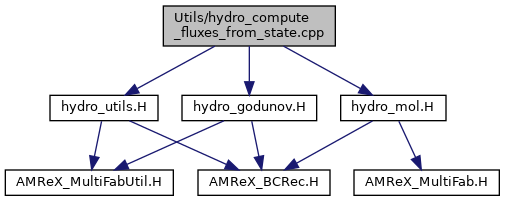
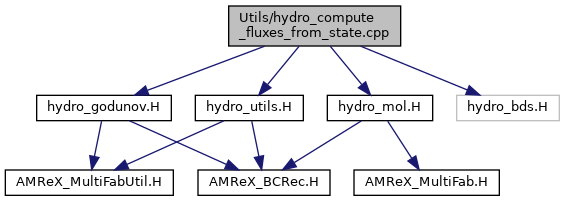
Deploying to main from  @ 1f61e9f0909a2ea51b47cd7fe5bc8acefe6986e6 🚀

diff --git a/amrex-hydro/Doxygen/html/search/all_10.js b/amrex-hydro/Doxygen/html/search/all_10.js
@@ -525,8 +525,8 @@ var searchData=
   ['push_5819',['push',['https://amrex-codes.github.io/amrex/doxygen/classamrex_1_1AMReX.html#aacd757c228bab84f39dc148cc5777624',1,'amrex::AMReX::push()'],['https://amrex-codes.github.io/amrex/doxygen/classamrex_1_1ParmParse_1_1Frame.html#a2b5df366a9cc67f3ab6159ab5c924ec8',1,'amrex::ParmParse::Frame::push()'],['https://amrex-codes.github.io/amrex/doxygen/classamrex_1_1EB2_1_1IndexSpace.html#a5a3c0ce524a4c0bff9901548d9e8648d',1,'amrex::EB2::IndexSpace::push()'],['https://amrex-codes.github.io/amrex/doxygen/structamrex_1_1IParserStack.html#af48a7aa2e427fa54e5aca98aca113111',1,'amrex::IParserStack::push()'],['https://amrex-codes.github.io/amrex/doxygen/structamrex_1_1ParserStack.html#ae5f96b8ae7c872185b3b816dadf7d480',1,'amrex::ParserStack::push()'],['https://amrex-codes.github.io/amrex/doxygen/namespaceamrex_1_1ParallelContext.html#a09cb92f4a123081a62f72e26a4e3c2a3',1,'amrex::ParallelContext::push(MPI_Comm c)'],['https://amrex-codes.github.io/amrex/doxygen/namespaceamrex_1_1ParallelContext.html#a8c562ca41b2d74fcd48dc76cc2acb6b4',1,'amrex::ParallelContext::push(MPI_Comm c, int id, int io_rank)']]],
   ['push_5fback_5820',['push_back',['https://amrex-codes.github.io/amrex/doxygen/classamrex_1_1ArrayOfStructs.html#a92ed68fdf4560419b02707461df781d5',1,'amrex::ArrayOfStructs::push_back()'],['https://amrex-codes.github.io/amrex/doxygen/classamrex_1_1ArrayOfStructs.html#a92ed68fdf4560419b02707461df781d5',1,'ArrayOfStructs&lt; NStructReal, NStructInt, DefaultAllocator &gt;::push_back()'],['https://amrex-codes.github.io/amrex/doxygen/classamrex_1_1BoxList.html#aaf9cf5350e31edefe87e9e8b2f2278ef',1,'amrex::BoxList::push_back()'],['https://amrex-codes.github.io/amrex/doxygen/structamrex_1_1DataLayoutPolicy_3_01ContainerType_00_01ParticleType_3_01Types_8_8_8_01_4_00_01DataLayout_1_1AoS_01_4.html#ab6b4b87deef7286f615f1db384e5774c',1,'amrex::DataLayoutPolicy&lt; ContainerType, ParticleType&lt; Types... &gt;, DataLayout::AoS &gt;::push_back()'],['https://amrex-codes.github.io/amrex/doxygen/structamrex_1_1DataLayoutPolicy_3_01ContainerType_00_01ParticleType_3_01Types_8_8_8_01_4_00_01DataLayout_1_1SoA_01_4.html#ab721332e7d5f36770a7a3f944857825a',1,'amrex::DataLayoutPolicy&lt; ContainerType, ParticleType&lt; Types... &gt;, DataLayout::SoA &gt;::push_back()'],['https://amrex-codes.github.io/amrex/doxygen/structamrex_1_1ParticleArray.html#ac63a647b8a7225d490ce30caaf1105b3',1,'amrex::ParticleArray::push_back()'],['https://amrex-codes.github.io/amrex/doxygen/structamrex_1_1ParticleTile.html#a28e1684c3daf3114705c8737fa0b526b',1,'amrex::ParticleTile::push_back(const ParticleType &amp;p)'],['https://amrex-codes.github.io/amrex/doxygen/structamrex_1_1ParticleTile.html#aaa22f040138b37b71974429c01c46772',1,'amrex::ParticleTile::push_back(const SuperParticleType &amp;sp)'],['https://amrex-codes.github.io/amrex/doxygen/classamrex_1_1PODVector.html#adb9df25b399f75fae646206ecd6706cc',1,'amrex::PODVector::push_back(const T &amp;a_value) noexcept'],['https://amrex-codes.github.io/amrex/doxygen/classamrex_1_1PODVector.html#a30ce7699c5a5620cad90ce01e827092c',1,'amrex::PODVector::push_back(T &amp;&amp;a_value) noexcept'],['https://amrex-codes.github.io/amrex/doxygen/classamrex_1_1PODVector.html#adb9df25b399f75fae646206ecd6706cc',1,'PODVector&lt; amrex::AssignGrid&lt; BinIteratorFactory &gt; &gt;::push_back(const amrex::AssignGrid&lt; BinIteratorFactory &gt; &amp;a_value) noexcept'],['https://amrex-codes.github.io/amrex/doxygen/classamrex_1_1PODVector.html#a30ce7699c5a5620cad90ce01e827092c',1,'PODVector&lt; amrex::AssignGrid&lt; BinIteratorFactory &gt; &gt;::push_back(amrex::AssignGrid&lt; BinIteratorFactory &gt; &amp;&amp;a_value) noexcept'],['https://amrex-codes.github.io/amrex/doxygen/classamrex_1_1PODVector.html#adb9df25b399f75fae646206ecd6706cc',1,'PODVector&lt; amrex::Box &gt;::push_back(const amrex::Box &amp;a_value) noexcept'],['https://amrex-codes.github.io/amrex/doxygen/classamrex_1_1PODVector.html#a30ce7699c5a5620cad90ce01e827092c',1,'PODVector&lt; amrex::Box &gt;::push_back(amrex::Box &amp;&amp;a_value) noexcept'],['https://amrex-codes.github.io/amrex/doxygen/classamrex_1_1PODVector.html#adb9df25b399f75fae646206ecd6706cc',1,'PODVector&lt; amrex::GpuArray&lt; amrex::MLCellLinOp::BCTL, 2 *AMREX_SPACEDIM &gt; &gt;::push_back(const amrex::GpuArray&lt; amrex::MLCellLinOp::BCTL, 2 *AMREX_SPACEDIM &gt; &amp;a_value) noexcept'],['https://amrex-codes.github.io/amrex/doxygen/classamrex_1_1PODVector.html#a30ce7699c5a5620cad90ce01e827092c',1,'PODVector&lt; amrex::GpuArray&lt; amrex::MLCellLinOp::BCTL, 2 *AMREX_SPACEDIM &gt; &gt;::push_back(amrex::GpuArray&lt; amrex::MLCellLinOp::BCTL, 2 *AMREX_SPACEDIM &gt; &amp;&amp;a_value) noexcept'],['https://amrex-codes.github.io/amrex/doxygen/classamrex_1_1PODVector.html#adb9df25b399f75fae646206ecd6706cc',1,'PODVector&lt; amrex::IntVect &gt;::push_back(const amrex::IntVect &amp;a_value) noexcept'],['https://amrex-codes.github.io/amrex/doxygen/classamrex_1_1PODVector.html#a30ce7699c5a5620cad90ce01e827092c',1,'PODVector&lt; amrex::IntVect &gt;::push_back(amrex::IntVect &amp;&amp;a_value) noexcept'],['https://amrex-codes.github.io/amrex/doxygen/classamrex_1_1PODVector.html#adb9df25b399f75fae646206ecd6706cc',1,'PODVector&lt; amrex::NeighborCode &gt;::push_back(const amrex::NeighborCode &amp;a_value) noexcept'],['https://amrex-codes.github.io/amrex/doxygen/classamrex_1_1PODVector.html#a30ce7699c5a5620cad90ce01e827092c',1,'PODVector&lt; amrex::NeighborCode &gt;::push_back(amrex::NeighborCode &amp;&amp;a_value) noexcept'],['https://amrex-codes.github.io/amrex/doxygen/classamrex_1_1PODVector.html#adb9df25b399f75fae646206ecd6706cc',1,'PODVector&lt; amrex::Real &gt;::push_back(const amrex::Real &amp;a_value) noexcept'],['https://amrex-codes.github.io/amrex/doxygen/classamrex_1_1PODVector.html#a30ce7699c5a5620cad90ce01e827092c',1,'PODVector&lt; amrex::Real &gt;::push_back(amrex::Real &amp;&amp;a_value) noexcept'],['https://amrex-codes.github.io/amrex/doxygen/classamrex_1_1PODVector.html#adb9df25b399f75fae646206ecd6706cc',1,'PODVector&lt; char &gt;::push_back(const char &amp;a_value) noexcept'],['https://amrex-codes.github.io/amrex/doxygen/classamrex_1_1PODVector.html#a30ce7699c5a5620cad90ce01e827092c',1,'PODVector&lt; char &gt;::push_back(char &amp;&amp;a_value) noexcept'],['https://amrex-codes.github.io/amrex/doxygen/classamrex_1_1PODVector.html#adb9df25b399f75fae646206ecd6706cc',1,'PODVector&lt; const int *, DefaultAllocator&lt; const int * &gt; &gt;::push_back(const const int *&amp;a_value) noexcept'],['https://amrex-codes.github.io/amrex/doxygen/classamrex_1_1PODVector.html#a30ce7699c5a5620cad90ce01e827092c',1,'PODVector&lt; const int *, DefaultAllocator&lt; const int * &gt; &gt;::push_back(const int *&amp;&amp;a_value) noexcept'],['https://amrex-codes.github.io/amrex/doxygen/classamrex_1_1PODVector.html#adb9df25b399f75fae646206ecd6706cc',1,'PODVector&lt; const ParticleReal *, DefaultAllocator&lt; const ParticleReal * &gt; &gt;::push_back(const const ParticleReal *&amp;a_value) noexcept'],['https://amrex-codes.github.io/amrex/doxygen/classamrex_1_1PODVector.html#a30ce7699c5a5620cad90ce01e827092c',1,'PODVector&lt; const ParticleReal *, DefaultAllocator&lt; const ParticleReal * &gt; &gt;::push_back(const ParticleReal *&amp;&amp;a_value) noexcept'],['https://amrex-codes.github.io/amrex/doxygen/classamrex_1_1PODVector.html#adb9df25b399f75fae646206ecd6706cc',1,'PODVector&lt; index_type &gt;::push_back(const index_type &amp;a_value) noexcept'],['https://amrex-codes.github.io/amrex/doxygen/classamrex_1_1PODVector.html#a30ce7699c5a5620cad90ce01e827092c',1,'PODVector&lt; index_type &gt;::push_back(index_type &amp;&amp;a_value) noexcept'],['https://amrex-codes.github.io/amrex/doxygen/classamrex_1_1PODVector.html#adb9df25b399f75fae646206ecd6706cc',1,'PODVector&lt; int *, DefaultAllocator&lt; int * &gt; &gt;::push_back(const int *&amp;a_value) noexcept'],['https://amrex-codes.github.io/amrex/doxygen/classamrex_1_1PODVector.html#a30ce7699c5a5620cad90ce01e827092c',1,'PODVector&lt; int *, DefaultAllocator&lt; int * &gt; &gt;::push_back(int *&amp;&amp;a_value) noexcept'],['https://amrex-codes.github.io/amrex/doxygen/classamrex_1_1PODVector.html#adb9df25b399f75fae646206ecd6706cc',1,'PODVector&lt; int &gt;::push_back(const int &amp;a_value) noexcept'],['https://amrex-codes.github.io/amrex/doxygen/classamrex_1_1PODVector.html#a30ce7699c5a5620cad90ce01e827092c',1,'PODVector&lt; int &gt;::push_back(int &amp;&amp;a_value) noexcept'],['https://amrex-codes.github.io/amrex/doxygen/classamrex_1_1PODVector.html#adb9df25b399f75fae646206ecd6706cc',1,'PODVector&lt; Int &gt;::push_back(const Int &amp;a_value) noexcept'],['https://amrex-codes.github.io/amrex/doxygen/classamrex_1_1PODVector.html#a30ce7699c5a5620cad90ce01e827092c',1,'PODVector&lt; Int &gt;::push_back(Int &amp;&amp;a_value) noexcept'],['https://amrex-codes.github.io/amrex/doxygen/classamrex_1_1PODVector.html#adb9df25b399f75fae646206ecd6706cc',1,'PODVector&lt; ParticleReal *, DefaultAllocator&lt; ParticleReal * &gt; &gt;::push_back(const ParticleReal *&amp;a_value) noexcept'],['https://amrex-codes.github.io/amrex/doxygen/classamrex_1_1PODVector.html#a30ce7699c5a5620cad90ce01e827092c',1,'PODVector&lt; ParticleReal *, DefaultAllocator&lt; ParticleReal * &gt; &gt;::push_back(ParticleReal *&amp;&amp;a_value) noexcept'],['https://amrex-codes.github.io/amrex/doxygen/classamrex_1_1PODVector.html#adb9df25b399f75fae646206ecd6706cc',1,'PODVector&lt; ParticleType, DefaultAllocator&lt; ParticleType &gt; &gt;::push_back(const ParticleType &amp;a_value) noexcept'],['https://amrex-codes.github.io/amrex/doxygen/classamrex_1_1PODVector.html#a30ce7699c5a5620cad90ce01e827092c',1,'PODVector&lt; ParticleType, DefaultAllocator&lt; ParticleType &gt; &gt;::push_back(ParticleType &amp;&amp;a_value) noexcept'],['https://amrex-codes.github.io/amrex/doxygen/classamrex_1_1PODVector.html#adb9df25b399f75fae646206ecd6706cc',1,'PODVector&lt; Real &gt;::push_back(const Real &amp;a_value) noexcept'],['https://amrex-codes.github.io/amrex/doxygen/classamrex_1_1PODVector.html#a30ce7699c5a5620cad90ce01e827092c',1,'PODVector&lt; Real &gt;::push_back(Real &amp;&amp;a_value) noexcept'],['https://amrex-codes.github.io/amrex/doxygen/classamrex_1_1PODVector.html#adb9df25b399f75fae646206ecd6706cc',1,'PODVector&lt; std::size_t &gt;::push_back(const std::size_t &amp;a_value) noexcept'],['https://amrex-codes.github.io/amrex/doxygen/classamrex_1_1PODVector.html#a30ce7699c5a5620cad90ce01e827092c',1,'PODVector&lt; std::size_t &gt;::push_back(std::size_t &amp;&amp;a_value) noexcept'],['https://amrex-codes.github.io/amrex/doxygen/classamrex_1_1PODVector.html#adb9df25b399f75fae646206ecd6706cc',1,'PODVector&lt; unsigned int &gt;::push_back(const unsigned int &amp;a_value) noexcept'],['https://amrex-codes.github.io/amrex/doxygen/classamrex_1_1PODVector.html#a30ce7699c5a5620cad90ce01e827092c',1,'PODVector&lt; unsigned int &gt;::push_back(unsigned int &amp;&amp;a_value) noexcept'],['https://amrex-codes.github.io/amrex/doxygen/classamrex_1_1WeightedBoxList.html#a059d2458f21b6e42c2c22ed204e26337',1,'amrex::WeightedBoxList::push_back()']]],
   ['push_5fback_5fimpl_5821',['push_back_impl',['https://amrex-codes.github.io/amrex/doxygen/structamrex_1_1DataLayoutPolicy_3_01ContainerType_00_01ParticleType_3_01Types_8_8_8_01_4_00_01DataLayout_1_1SoA_01_4.html#acec2f30f8a1442343e173e8b286ce526',1,'amrex::DataLayoutPolicy&lt; ContainerType, ParticleType&lt; Types... &gt;, DataLayout::SoA &gt;']]],
-  ['push_5fback_5fint_5822',['push_back_int',['https://amrex-codes.github.io/amrex/doxygen/structamrex_1_1ParticleTile.html#a9e7cea5a0daeb5e0c68ef9ad5553b52a',1,'amrex::ParticleTile::push_back_int(int comp, int v)'],['https://amrex-codes.github.io/amrex/doxygen/structamrex_1_1ParticleTile.html#a84f0480fe10a0695abf74e9f8b397454',1,'amrex::ParticleTile::push_back_int(const std::array&lt; int, NArrayInt &gt; &amp;v)'],['https://amrex-codes.github.io/amrex/doxygen/structamrex_1_1ParticleTile.html#a58d94753478e65af1b75a010eec7a1d7',1,'amrex::ParticleTile::push_back_int(int comp, const int *beg, const int *end)'],['https://amrex-codes.github.io/amrex/doxygen/structamrex_1_1ParticleTile.html#a9216fb4aafebb089b04bda28d871e059',1,'amrex::ParticleTile::push_back_int(int comp, std::size_t npar, int v)']]],
-  ['push_5fback_5freal_5823',['push_back_real',['https://amrex-codes.github.io/amrex/doxygen/structamrex_1_1ParticleTile.html#abe65fea82c76b01d25b580cb51d010b2',1,'amrex::ParticleTile::push_back_real(int comp, ParticleReal v)'],['https://amrex-codes.github.io/amrex/doxygen/structamrex_1_1ParticleTile.html#ac44fade5412c189846d84078b4175e09',1,'amrex::ParticleTile::push_back_real(const std::array&lt; ParticleReal, NArrayReal &gt; &amp;v)'],['https://amrex-codes.github.io/amrex/doxygen/structamrex_1_1ParticleTile.html#ad16a71f65f177e64acc2a9a569e2aa4f',1,'amrex::ParticleTile::push_back_real(int comp, const ParticleReal *beg, const ParticleReal *end)'],['https://amrex-codes.github.io/amrex/doxygen/structamrex_1_1ParticleTile.html#a1013ca03cb3abee5f186d0d2c36d91ba',1,'amrex::ParticleTile::push_back_real(int comp, std::size_t npar, ParticleReal v)']]],
+  ['push_5fback_5fint_5822',['push_back_int',['https://amrex-codes.github.io/amrex/doxygen/structamrex_1_1ParticleTile.html#a9e7cea5a0daeb5e0c68ef9ad5553b52a',1,'amrex::ParticleTile::push_back_int(int comp, int v)'],['https://amrex-codes.github.io/amrex/doxygen/structamrex_1_1ParticleTile.html#a84f0480fe10a0695abf74e9f8b397454',1,'amrex::ParticleTile::push_back_int(const std::array&lt; int, NArrayInt &gt; &amp;v)'],['https://amrex-codes.github.io/amrex/doxygen/structamrex_1_1ParticleTile.html#a58d94753478e65af1b75a010eec7a1d7',1,'amrex::ParticleTile::push_back_int(int comp, const int *beg, const int *end)'],['https://amrex-codes.github.io/amrex/doxygen/structamrex_1_1ParticleTile.html#a41bd5591adda272727766198be952f6e',1,'amrex::ParticleTile::push_back_int(int comp, amrex::Vector&lt; int &gt;::const_iterator beg, amrex::Vector&lt; int &gt;::const_iterator end)'],['https://amrex-codes.github.io/amrex/doxygen/structamrex_1_1ParticleTile.html#ae59092b40a00ff0e7e0bd287b07079ca',1,'amrex::ParticleTile::push_back_int(int comp, amrex::Vector&lt; int &gt; const &amp;vec)'],['https://amrex-codes.github.io/amrex/doxygen/structamrex_1_1ParticleTile.html#a9216fb4aafebb089b04bda28d871e059',1,'amrex::ParticleTile::push_back_int(int comp, std::size_t npar, int v)']]],
+  ['push_5fback_5freal_5823',['push_back_real',['https://amrex-codes.github.io/amrex/doxygen/structamrex_1_1ParticleTile.html#abe65fea82c76b01d25b580cb51d010b2',1,'amrex::ParticleTile::push_back_real(int comp, ParticleReal v)'],['https://amrex-codes.github.io/amrex/doxygen/structamrex_1_1ParticleTile.html#ac44fade5412c189846d84078b4175e09',1,'amrex::ParticleTile::push_back_real(const std::array&lt; ParticleReal, NArrayReal &gt; &amp;v)'],['https://amrex-codes.github.io/amrex/doxygen/structamrex_1_1ParticleTile.html#ad16a71f65f177e64acc2a9a569e2aa4f',1,'amrex::ParticleTile::push_back_real(int comp, const ParticleReal *beg, const ParticleReal *end)'],['https://amrex-codes.github.io/amrex/doxygen/structamrex_1_1ParticleTile.html#a774121fa851e79cfc14f2e17e005b1b2',1,'amrex::ParticleTile::push_back_real(int comp, amrex::Vector&lt; amrex::ParticleReal &gt;::const_iterator beg, amrex::Vector&lt; amrex::ParticleReal &gt;::const_iterator end)'],['https://amrex-codes.github.io/amrex/doxygen/structamrex_1_1ParticleTile.html#a59a1bf76033055a3e1dd0dbbb3d61447',1,'amrex::ParticleTile::push_back_real(int comp, amrex::Vector&lt; amrex::ParticleReal &gt; const &amp;vec)'],['https://amrex-codes.github.io/amrex/doxygen/structamrex_1_1ParticleTile.html#a1013ca03cb3abee5f186d0d2c36d91ba',1,'amrex::ParticleTile::push_back_real(int comp, std::size_t npar, ParticleReal v)']]],
   ['pushprefix_5824',['pushPrefix',['https://amrex-codes.github.io/amrex/doxygen/classamrex_1_1ParmParse.html#a83c047347e19313480ff276fa0683ac9',1,'amrex::ParmParse']]],
   ['pushregiontag_5825',['pushRegionTag',['https://amrex-codes.github.io/amrex/doxygen/classamrex_1_1FabArrayBase.html#a550a79531f98644ed6572f635f854cf7',1,'amrex::FabArrayBase::pushRegionTag(const char *t)'],['https://amrex-codes.github.io/amrex/doxygen/classamrex_1_1FabArrayBase.html#a6c6874f6a073ba5a8fe15d5fc7837a5d',1,'amrex::FabArrayBase::pushRegionTag(std::string t)']]],
   ['pvmf_5826',['PVMF',['https://amrex-codes.github.io/amrex/doxygen/classamrex_1_1DistributionMapping.html#a55afc17fcc72abd4f0f9bf4bd305ce4b',1,'amrex::DistributionMapping']]]

diff --git a/amrex-hydro/Doxygen/html/search/functions_10.js b/amrex-hydro/Doxygen/html/search/functions_10.js
@@ -243,8 +243,8 @@ var searchData=
   ['push_12158',['push',['https://amrex-codes.github.io/amrex/doxygen/classamrex_1_1AMReX.html#aacd757c228bab84f39dc148cc5777624',1,'amrex::AMReX::push()'],['https://amrex-codes.github.io/amrex/doxygen/classamrex_1_1ParmParse_1_1Frame.html#a2b5df366a9cc67f3ab6159ab5c924ec8',1,'amrex::ParmParse::Frame::push()'],['https://amrex-codes.github.io/amrex/doxygen/classamrex_1_1EB2_1_1IndexSpace.html#a5a3c0ce524a4c0bff9901548d9e8648d',1,'amrex::EB2::IndexSpace::push()'],['https://amrex-codes.github.io/amrex/doxygen/structamrex_1_1IParserStack.html#af48a7aa2e427fa54e5aca98aca113111',1,'amrex::IParserStack::push()'],['https://amrex-codes.github.io/amrex/doxygen/structamrex_1_1ParserStack.html#ae5f96b8ae7c872185b3b816dadf7d480',1,'amrex::ParserStack::push()'],['https://amrex-codes.github.io/amrex/doxygen/namespaceamrex_1_1ParallelContext.html#a09cb92f4a123081a62f72e26a4e3c2a3',1,'amrex::ParallelContext::push(MPI_Comm c)'],['https://amrex-codes.github.io/amrex/doxygen/namespaceamrex_1_1ParallelContext.html#a8c562ca41b2d74fcd48dc76cc2acb6b4',1,'amrex::ParallelContext::push(MPI_Comm c, int id, int io_rank)']]],
   ['push_5fback_12159',['push_back',['https://amrex-codes.github.io/amrex/doxygen/classamrex_1_1ArrayOfStructs.html#a92ed68fdf4560419b02707461df781d5',1,'amrex::ArrayOfStructs::push_back()'],['https://amrex-codes.github.io/amrex/doxygen/classamrex_1_1ArrayOfStructs.html#a92ed68fdf4560419b02707461df781d5',1,'ArrayOfStructs&lt; NStructReal, NStructInt, DefaultAllocator &gt;::push_back()'],['https://amrex-codes.github.io/amrex/doxygen/classamrex_1_1BoxList.html#aaf9cf5350e31edefe87e9e8b2f2278ef',1,'amrex::BoxList::push_back()'],['https://amrex-codes.github.io/amrex/doxygen/structamrex_1_1DataLayoutPolicy_3_01ContainerType_00_01ParticleType_3_01Types_8_8_8_01_4_00_01DataLayout_1_1AoS_01_4.html#ab6b4b87deef7286f615f1db384e5774c',1,'amrex::DataLayoutPolicy&lt; ContainerType, ParticleType&lt; Types... &gt;, DataLayout::AoS &gt;::push_back()'],['https://amrex-codes.github.io/amrex/doxygen/structamrex_1_1DataLayoutPolicy_3_01ContainerType_00_01ParticleType_3_01Types_8_8_8_01_4_00_01DataLayout_1_1SoA_01_4.html#ab721332e7d5f36770a7a3f944857825a',1,'amrex::DataLayoutPolicy&lt; ContainerType, ParticleType&lt; Types... &gt;, DataLayout::SoA &gt;::push_back()'],['https://amrex-codes.github.io/amrex/doxygen/structamrex_1_1ParticleArray.html#ac63a647b8a7225d490ce30caaf1105b3',1,'amrex::ParticleArray::push_back()'],['https://amrex-codes.github.io/amrex/doxygen/structamrex_1_1ParticleTile.html#a28e1684c3daf3114705c8737fa0b526b',1,'amrex::ParticleTile::push_back(const ParticleType &amp;p)'],['https://amrex-codes.github.io/amrex/doxygen/structamrex_1_1ParticleTile.html#aaa22f040138b37b71974429c01c46772',1,'amrex::ParticleTile::push_back(const SuperParticleType &amp;sp)'],['https://amrex-codes.github.io/amrex/doxygen/classamrex_1_1PODVector.html#adb9df25b399f75fae646206ecd6706cc',1,'amrex::PODVector::push_back(const T &amp;a_value) noexcept'],['https://amrex-codes.github.io/amrex/doxygen/classamrex_1_1PODVector.html#a30ce7699c5a5620cad90ce01e827092c',1,'amrex::PODVector::push_back(T &amp;&amp;a_value) noexcept'],['https://amrex-codes.github.io/amrex/doxygen/classamrex_1_1PODVector.html#adb9df25b399f75fae646206ecd6706cc',1,'PODVector&lt; amrex::AssignGrid&lt; BinIteratorFactory &gt; &gt;::push_back(const amrex::AssignGrid&lt; BinIteratorFactory &gt; &amp;a_value) noexcept'],['https://amrex-codes.github.io/amrex/doxygen/classamrex_1_1PODVector.html#a30ce7699c5a5620cad90ce01e827092c',1,'PODVector&lt; amrex::AssignGrid&lt; BinIteratorFactory &gt; &gt;::push_back(amrex::AssignGrid&lt; BinIteratorFactory &gt; &amp;&amp;a_value) noexcept'],['https://amrex-codes.github.io/amrex/doxygen/classamrex_1_1PODVector.html#adb9df25b399f75fae646206ecd6706cc',1,'PODVector&lt; amrex::Box &gt;::push_back(const amrex::Box &amp;a_value) noexcept'],['https://amrex-codes.github.io/amrex/doxygen/classamrex_1_1PODVector.html#a30ce7699c5a5620cad90ce01e827092c',1,'PODVector&lt; amrex::Box &gt;::push_back(amrex::Box &amp;&amp;a_value) noexcept'],['https://amrex-codes.github.io/amrex/doxygen/classamrex_1_1PODVector.html#adb9df25b399f75fae646206ecd6706cc',1,'PODVector&lt; amrex::GpuArray&lt; amrex::MLCellLinOp::BCTL, 2 *AMREX_SPACEDIM &gt; &gt;::push_back(const amrex::GpuArray&lt; amrex::MLCellLinOp::BCTL, 2 *AMREX_SPACEDIM &gt; &amp;a_value) noexcept'],['https://amrex-codes.github.io/amrex/doxygen/classamrex_1_1PODVector.html#a30ce7699c5a5620cad90ce01e827092c',1,'PODVector&lt; amrex::GpuArray&lt; amrex::MLCellLinOp::BCTL, 2 *AMREX_SPACEDIM &gt; &gt;::push_back(amrex::GpuArray&lt; amrex::MLCellLinOp::BCTL, 2 *AMREX_SPACEDIM &gt; &amp;&amp;a_value) noexcept'],['https://amrex-codes.github.io/amrex/doxygen/classamrex_1_1PODVector.html#adb9df25b399f75fae646206ecd6706cc',1,'PODVector&lt; amrex::IntVect &gt;::push_back(const amrex::IntVect &amp;a_value) noexcept'],['https://amrex-codes.github.io/amrex/doxygen/classamrex_1_1PODVector.html#a30ce7699c5a5620cad90ce01e827092c',1,'PODVector&lt; amrex::IntVect &gt;::push_back(amrex::IntVect &amp;&amp;a_value) noexcept'],['https://amrex-codes.github.io/amrex/doxygen/classamrex_1_1PODVector.html#adb9df25b399f75fae646206ecd6706cc',1,'PODVector&lt; amrex::NeighborCode &gt;::push_back(const amrex::NeighborCode &amp;a_value) noexcept'],['https://amrex-codes.github.io/amrex/doxygen/classamrex_1_1PODVector.html#a30ce7699c5a5620cad90ce01e827092c',1,'PODVector&lt; amrex::NeighborCode &gt;::push_back(amrex::NeighborCode &amp;&amp;a_value) noexcept'],['https://amrex-codes.github.io/amrex/doxygen/classamrex_1_1PODVector.html#adb9df25b399f75fae646206ecd6706cc',1,'PODVector&lt; amrex::Real &gt;::push_back(const amrex::Real &amp;a_value) noexcept'],['https://amrex-codes.github.io/amrex/doxygen/classamrex_1_1PODVector.html#a30ce7699c5a5620cad90ce01e827092c',1,'PODVector&lt; amrex::Real &gt;::push_back(amrex::Real &amp;&amp;a_value) noexcept'],['https://amrex-codes.github.io/amrex/doxygen/classamrex_1_1PODVector.html#adb9df25b399f75fae646206ecd6706cc',1,'PODVector&lt; char &gt;::push_back(const char &amp;a_value) noexcept'],['https://amrex-codes.github.io/amrex/doxygen/classamrex_1_1PODVector.html#a30ce7699c5a5620cad90ce01e827092c',1,'PODVector&lt; char &gt;::push_back(char &amp;&amp;a_value) noexcept'],['https://amrex-codes.github.io/amrex/doxygen/classamrex_1_1PODVector.html#adb9df25b399f75fae646206ecd6706cc',1,'PODVector&lt; const int *, DefaultAllocator&lt; const int * &gt; &gt;::push_back(const const int *&amp;a_value) noexcept'],['https://amrex-codes.github.io/amrex/doxygen/classamrex_1_1PODVector.html#a30ce7699c5a5620cad90ce01e827092c',1,'PODVector&lt; const int *, DefaultAllocator&lt; const int * &gt; &gt;::push_back(const int *&amp;&amp;a_value) noexcept'],['https://amrex-codes.github.io/amrex/doxygen/classamrex_1_1PODVector.html#adb9df25b399f75fae646206ecd6706cc',1,'PODVector&lt; const ParticleReal *, DefaultAllocator&lt; const ParticleReal * &gt; &gt;::push_back(const const ParticleReal *&amp;a_value) noexcept'],['https://amrex-codes.github.io/amrex/doxygen/classamrex_1_1PODVector.html#a30ce7699c5a5620cad90ce01e827092c',1,'PODVector&lt; const ParticleReal *, DefaultAllocator&lt; const ParticleReal * &gt; &gt;::push_back(const ParticleReal *&amp;&amp;a_value) noexcept'],['https://amrex-codes.github.io/amrex/doxygen/classamrex_1_1PODVector.html#adb9df25b399f75fae646206ecd6706cc',1,'PODVector&lt; index_type &gt;::push_back(const index_type &amp;a_value) noexcept'],['https://amrex-codes.github.io/amrex/doxygen/classamrex_1_1PODVector.html#a30ce7699c5a5620cad90ce01e827092c',1,'PODVector&lt; index_type &gt;::push_back(index_type &amp;&amp;a_value) noexcept'],['https://amrex-codes.github.io/amrex/doxygen/classamrex_1_1PODVector.html#adb9df25b399f75fae646206ecd6706cc',1,'PODVector&lt; int *, DefaultAllocator&lt; int * &gt; &gt;::push_back(const int *&amp;a_value) noexcept'],['https://amrex-codes.github.io/amrex/doxygen/classamrex_1_1PODVector.html#a30ce7699c5a5620cad90ce01e827092c',1,'PODVector&lt; int *, DefaultAllocator&lt; int * &gt; &gt;::push_back(int *&amp;&amp;a_value) noexcept'],['https://amrex-codes.github.io/amrex/doxygen/classamrex_1_1PODVector.html#adb9df25b399f75fae646206ecd6706cc',1,'PODVector&lt; int &gt;::push_back(const int &amp;a_value) noexcept'],['https://amrex-codes.github.io/amrex/doxygen/classamrex_1_1PODVector.html#a30ce7699c5a5620cad90ce01e827092c',1,'PODVector&lt; int &gt;::push_back(int &amp;&amp;a_value) noexcept'],['https://amrex-codes.github.io/amrex/doxygen/classamrex_1_1PODVector.html#adb9df25b399f75fae646206ecd6706cc',1,'PODVector&lt; Int &gt;::push_back(const Int &amp;a_value) noexcept'],['https://amrex-codes.github.io/amrex/doxygen/classamrex_1_1PODVector.html#a30ce7699c5a5620cad90ce01e827092c',1,'PODVector&lt; Int &gt;::push_back(Int &amp;&amp;a_value) noexcept'],['https://amrex-codes.github.io/amrex/doxygen/classamrex_1_1PODVector.html#adb9df25b399f75fae646206ecd6706cc',1,'PODVector&lt; ParticleReal *, DefaultAllocator&lt; ParticleReal * &gt; &gt;::push_back(const ParticleReal *&amp;a_value) noexcept'],['https://amrex-codes.github.io/amrex/doxygen/classamrex_1_1PODVector.html#a30ce7699c5a5620cad90ce01e827092c',1,'PODVector&lt; ParticleReal *, DefaultAllocator&lt; ParticleReal * &gt; &gt;::push_back(ParticleReal *&amp;&amp;a_value) noexcept'],['https://amrex-codes.github.io/amrex/doxygen/classamrex_1_1PODVector.html#adb9df25b399f75fae646206ecd6706cc',1,'PODVector&lt; ParticleType, DefaultAllocator&lt; ParticleType &gt; &gt;::push_back(const ParticleType &amp;a_value) noexcept'],['https://amrex-codes.github.io/amrex/doxygen/classamrex_1_1PODVector.html#a30ce7699c5a5620cad90ce01e827092c',1,'PODVector&lt; ParticleType, DefaultAllocator&lt; ParticleType &gt; &gt;::push_back(ParticleType &amp;&amp;a_value) noexcept'],['https://amrex-codes.github.io/amrex/doxygen/classamrex_1_1PODVector.html#adb9df25b399f75fae646206ecd6706cc',1,'PODVector&lt; Real &gt;::push_back(const Real &amp;a_value) noexcept'],['https://amrex-codes.github.io/amrex/doxygen/classamrex_1_1PODVector.html#a30ce7699c5a5620cad90ce01e827092c',1,'PODVector&lt; Real &gt;::push_back(Real &amp;&amp;a_value) noexcept'],['https://amrex-codes.github.io/amrex/doxygen/classamrex_1_1PODVector.html#adb9df25b399f75fae646206ecd6706cc',1,'PODVector&lt; std::size_t &gt;::push_back(const std::size_t &amp;a_value) noexcept'],['https://amrex-codes.github.io/amrex/doxygen/classamrex_1_1PODVector.html#a30ce7699c5a5620cad90ce01e827092c',1,'PODVector&lt; std::size_t &gt;::push_back(std::size_t &amp;&amp;a_value) noexcept'],['https://amrex-codes.github.io/amrex/doxygen/classamrex_1_1PODVector.html#adb9df25b399f75fae646206ecd6706cc',1,'PODVector&lt; unsigned int &gt;::push_back(const unsigned int &amp;a_value) noexcept'],['https://amrex-codes.github.io/amrex/doxygen/classamrex_1_1PODVector.html#a30ce7699c5a5620cad90ce01e827092c',1,'PODVector&lt; unsigned int &gt;::push_back(unsigned int &amp;&amp;a_value) noexcept'],['https://amrex-codes.github.io/amrex/doxygen/classamrex_1_1WeightedBoxList.html#a059d2458f21b6e42c2c22ed204e26337',1,'amrex::WeightedBoxList::push_back()']]],
   ['push_5fback_5fimpl_12160',['push_back_impl',['https://amrex-codes.github.io/amrex/doxygen/structamrex_1_1DataLayoutPolicy_3_01ContainerType_00_01ParticleType_3_01Types_8_8_8_01_4_00_01DataLayout_1_1SoA_01_4.html#acec2f30f8a1442343e173e8b286ce526',1,'amrex::DataLayoutPolicy&lt; ContainerType, ParticleType&lt; Types... &gt;, DataLayout::SoA &gt;']]],
-  ['push_5fback_5fint_12161',['push_back_int',['https://amrex-codes.github.io/amrex/doxygen/structamrex_1_1ParticleTile.html#a9e7cea5a0daeb5e0c68ef9ad5553b52a',1,'amrex::ParticleTile::push_back_int(int comp, int v)'],['https://amrex-codes.github.io/amrex/doxygen/structamrex_1_1ParticleTile.html#a84f0480fe10a0695abf74e9f8b397454',1,'amrex::ParticleTile::push_back_int(const std::array&lt; int, NArrayInt &gt; &amp;v)'],['https://amrex-codes.github.io/amrex/doxygen/structamrex_1_1ParticleTile.html#a58d94753478e65af1b75a010eec7a1d7',1,'amrex::ParticleTile::push_back_int(int comp, const int *beg, const int *end)'],['https://amrex-codes.github.io/amrex/doxygen/structamrex_1_1ParticleTile.html#a9216fb4aafebb089b04bda28d871e059',1,'amrex::ParticleTile::push_back_int(int comp, std::size_t npar, int v)']]],
-  ['push_5fback_5freal_12162',['push_back_real',['https://amrex-codes.github.io/amrex/doxygen/structamrex_1_1ParticleTile.html#abe65fea82c76b01d25b580cb51d010b2',1,'amrex::ParticleTile::push_back_real(int comp, ParticleReal v)'],['https://amrex-codes.github.io/amrex/doxygen/structamrex_1_1ParticleTile.html#ac44fade5412c189846d84078b4175e09',1,'amrex::ParticleTile::push_back_real(const std::array&lt; ParticleReal, NArrayReal &gt; &amp;v)'],['https://amrex-codes.github.io/amrex/doxygen/structamrex_1_1ParticleTile.html#ad16a71f65f177e64acc2a9a569e2aa4f',1,'amrex::ParticleTile::push_back_real(int comp, const ParticleReal *beg, const ParticleReal *end)'],['https://amrex-codes.github.io/amrex/doxygen/structamrex_1_1ParticleTile.html#a1013ca03cb3abee5f186d0d2c36d91ba',1,'amrex::ParticleTile::push_back_real(int comp, std::size_t npar, ParticleReal v)']]],
+  ['push_5fback_5fint_12161',['push_back_int',['https://amrex-codes.github.io/amrex/doxygen/structamrex_1_1ParticleTile.html#a9e7cea5a0daeb5e0c68ef9ad5553b52a',1,'amrex::ParticleTile::push_back_int(int comp, int v)'],['https://amrex-codes.github.io/amrex/doxygen/structamrex_1_1ParticleTile.html#a84f0480fe10a0695abf74e9f8b397454',1,'amrex::ParticleTile::push_back_int(const std::array&lt; int, NArrayInt &gt; &amp;v)'],['https://amrex-codes.github.io/amrex/doxygen/structamrex_1_1ParticleTile.html#a58d94753478e65af1b75a010eec7a1d7',1,'amrex::ParticleTile::push_back_int(int comp, const int *beg, const int *end)'],['https://amrex-codes.github.io/amrex/doxygen/structamrex_1_1ParticleTile.html#a41bd5591adda272727766198be952f6e',1,'amrex::ParticleTile::push_back_int(int comp, amrex::Vector&lt; int &gt;::const_iterator beg, amrex::Vector&lt; int &gt;::const_iterator end)'],['https://amrex-codes.github.io/amrex/doxygen/structamrex_1_1ParticleTile.html#ae59092b40a00ff0e7e0bd287b07079ca',1,'amrex::ParticleTile::push_back_int(int comp, amrex::Vector&lt; int &gt; const &amp;vec)'],['https://amrex-codes.github.io/amrex/doxygen/structamrex_1_1ParticleTile.html#a9216fb4aafebb089b04bda28d871e059',1,'amrex::ParticleTile::push_back_int(int comp, std::size_t npar, int v)']]],
+  ['push_5fback_5freal_12162',['push_back_real',['https://amrex-codes.github.io/amrex/doxygen/structamrex_1_1ParticleTile.html#abe65fea82c76b01d25b580cb51d010b2',1,'amrex::ParticleTile::push_back_real(int comp, ParticleReal v)'],['https://amrex-codes.github.io/amrex/doxygen/structamrex_1_1ParticleTile.html#ac44fade5412c189846d84078b4175e09',1,'amrex::ParticleTile::push_back_real(const std::array&lt; ParticleReal, NArrayReal &gt; &amp;v)'],['https://amrex-codes.github.io/amrex/doxygen/structamrex_1_1ParticleTile.html#ad16a71f65f177e64acc2a9a569e2aa4f',1,'amrex::ParticleTile::push_back_real(int comp, const ParticleReal *beg, const ParticleReal *end)'],['https://amrex-codes.github.io/amrex/doxygen/structamrex_1_1ParticleTile.html#a774121fa851e79cfc14f2e17e005b1b2',1,'amrex::ParticleTile::push_back_real(int comp, amrex::Vector&lt; amrex::ParticleReal &gt;::const_iterator beg, amrex::Vector&lt; amrex::ParticleReal &gt;::const_iterator end)'],['https://amrex-codes.github.io/amrex/doxygen/structamrex_1_1ParticleTile.html#a59a1bf76033055a3e1dd0dbbb3d61447',1,'amrex::ParticleTile::push_back_real(int comp, amrex::Vector&lt; amrex::ParticleReal &gt; const &amp;vec)'],['https://amrex-codes.github.io/amrex/doxygen/structamrex_1_1ParticleTile.html#a1013ca03cb3abee5f186d0d2c36d91ba',1,'amrex::ParticleTile::push_back_real(int comp, std::size_t npar, ParticleReal v)']]],
   ['pushprefix_12163',['pushPrefix',['https://amrex-codes.github.io/amrex/doxygen/classamrex_1_1ParmParse.html#a83c047347e19313480ff276fa0683ac9',1,'amrex::ParmParse']]],
   ['pushregiontag_12164',['pushRegionTag',['https://amrex-codes.github.io/amrex/doxygen/classamrex_1_1FabArrayBase.html#a550a79531f98644ed6572f635f854cf7',1,'amrex::FabArrayBase::pushRegionTag(const char *t)'],['https://amrex-codes.github.io/amrex/doxygen/classamrex_1_1FabArrayBase.html#a6c6874f6a073ba5a8fe15d5fc7837a5d',1,'amrex::FabArrayBase::pushRegionTag(std::string t)']]]
 ];

diff --git a/amrex-hydro/Doxygen/html/hydro__constants_8H_source.html b/amrex-hydro/Doxygen/html/hydro__constants_8H_source.html
@@ -173,6 +173,7 @@ $(document).ready(function(){initNavTree('hydro__constants_8H_source.html',''); 
 <div class="ttc" id="anamespaceamrex_html_abd2e3d292645433cefc947725585f87aaa72ed46ebb1280e51746ce28ded53942"><div class="ttname"><a href="https://amrex-codes.github.io/amrex/doxygen/namespaceamrex.html#abd2e3d292645433cefc947725585f87aaa72ed46ebb1280e51746ce28ded53942">amrex::FabType::covered</a></div><div class="ttdeci">@ covered</div></div>
 <div class="ttc" id="anamespaceamrex_html"><div class="ttname"><a href="https://amrex-codes.github.io/amrex/doxygen/namespaceamrex.html">amrex</a></div></div>
 <div class="ttc" id="ahydro__utils_8H_html"><div class="ttname"><a href="hydro__utils_8H.html">hydro_utils.H</a></div></div>
+<div class="ttc" id="anamespaceamrex_html_ad26f2328bf66aa9678347a6055a25431"><div class="ttname"><a href="https://amrex-codes.github.io/amrex/doxygen/namespaceamrex.html#ad26f2328bf66aa9678347a6055a25431">amrex::Abort</a></div><div class="ttdeci">void Abort(const std::string &amp;msg)</div></div>
 <div class="ttc" id="anamespaceEBMOL_html_a94df1b279b45eac5141dfe0dff0a79bc"><div class="ttname"><a href="namespaceEBMOL.html#a94df1b279b45eac5141dfe0dff0a79bc">EBMOL::ComputeEdgeState</a></div><div class="ttdeci">void ComputeEdgeState(amrex::Box const &amp;bx, AMREX_D_DECL(amrex::Array4&lt; amrex::Real &gt; const &amp;xedge, amrex::Array4&lt; amrex::Real &gt; const &amp;yedge, amrex::Array4&lt; amrex::Real &gt; const &amp;zedge), amrex::Array4&lt; amrex::Real const &gt; const &amp;q, const int ncomp, AMREX_D_DECL(amrex::Array4&lt; amrex::Real const &gt; const &amp;umac, amrex::Array4&lt; amrex::Real const &gt; const &amp;vmac, amrex::Array4&lt; amrex::Real const &gt; const &amp;wmac), amrex::Box const &amp;domain, amrex::Vector&lt; amrex::BCRec &gt; const &amp;bcs, amrex::BCRec const *d_bcrec_ptr, AMREX_D_DECL(amrex::Array4&lt; amrex::Real const &gt; const &amp;fcx, amrex::Array4&lt; amrex::Real const &gt; const &amp;fcy, amrex::Array4&lt; amrex::Real const &gt; const &amp;fcz), amrex::Array4&lt; amrex::Real const &gt; const &amp;ccc, amrex::Array4&lt; amrex::Real const &gt; const &amp;vfrac, amrex::Array4&lt; amrex::EBCellFlag const &gt; const &amp;flag, const bool is_velocity)</div></div>
 <div class="ttc" id="aclassamrex_1_1EBCellFlagFab_html_ad195d2769922a7376a690010b7cc569a"><div class="ttname"><a href="https://amrex-codes.github.io/amrex/doxygen/classamrex_1_1EBCellFlagFab.html#ad195d2769922a7376a690010b7cc569a">amrex::EBCellFlagFab::getType</a></div><div class="ttdeci">FabType getType() const noexcept</div></div>
 <div class="ttc" id="aclassamrex_1_1MFIter_html"><div class="ttname"><a href="https://amrex-codes.github.io/amrex/doxygen/classamrex_1_1MFIter.html">amrex::MFIter</a></div></div>

diff --git a/amrex-hydro/Doxygen/html/hydro__compute__fluxes__from__state_8cpp.html b/amrex-hydro/Doxygen/html/hydro__compute__fluxes__from__state_8cpp.html
@@ -97,6 +97,7 @@ $(document).ready(function(){initNavTree('hydro__compute__fluxes__from__state_8c
 </div><!--header-->
 <div class="contents">
 <div class="textblock"><code>#include &lt;<a class="el" href="hydro__godunov_8H_source.html">hydro_godunov.H</a>&gt;</code><br />
+<code>#include &lt;hydro_bds.H&gt;</code><br />
 <code>#include &lt;<a class="el" href="hydro__mol_8H_source.html">hydro_mol.H</a>&gt;</code><br />
 <code>#include &lt;<a class="el" href="hydro__utils_8H_source.html">hydro_utils.H</a>&gt;</code><br />
 </div><div class="textblock"><div class="dynheader">
@@ -104,10 +105,11 @@ Include dependency graph for hydro_compute_fluxes_from_state.cpp:</div>
 <div class="dyncontent">
 <div class="center"><img src="hydro__compute__fluxes__from__state_8cpp__incl.png" border="0" usemap="#Utils_2hydro__compute__fluxes__from__state_8cpp" alt=""/></div>
 <map name="Utils_2hydro__compute__fluxes__from__state_8cpp" id="Utils_2hydro__compute__fluxes__from__state_8cpp">
-<area shape="rect" title=" " alt="" coords="163,5,335,47"/>
-<area shape="rect" href="hydro__godunov_8H.html" title=" " alt="" coords="182,95,317,121"/>
-<area shape="rect" href="hydro__mol_8H.html" title="A documented file." alt="" coords="341,95,446,121"/>
-<area shape="rect" href="hydro__utils_8H.html" title=" " alt="" coords="50,95,158,121"/>
+<area shape="rect" title=" " alt="" coords="229,5,401,47"/>
+<area shape="rect" href="hydro__godunov_8H.html" title=" " alt="" coords="37,95,171,121"/>
+<area shape="rect" title=" " alt="" coords="457,95,559,121"/>
+<area shape="rect" href="hydro__mol_8H.html" title="A documented file." alt="" coords="327,95,433,121"/>
+<area shape="rect" href="hydro__utils_8H.html" title=" " alt="" coords="195,95,303,121"/>
 <area shape="rect" href="https://amrex-codes.github.io/amrex/doxygen/AMReX__MultiFabUtil_8H.html.html" title=" " alt="" coords="5,169,173,196"/>
 <area shape="rect" href="https://amrex-codes.github.io/amrex/doxygen/AMReX__BCRec_8H.html.html" title=" " alt="" coords="198,169,330,196"/>
 <area shape="rect" href="https://amrex-codes.github.io/amrex/doxygen/AMReX__MultiFab_8H.html.html" title=" " alt="" coords="354,169,499,196"/>
